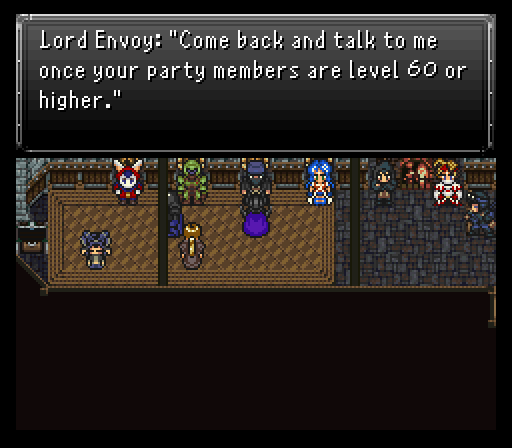
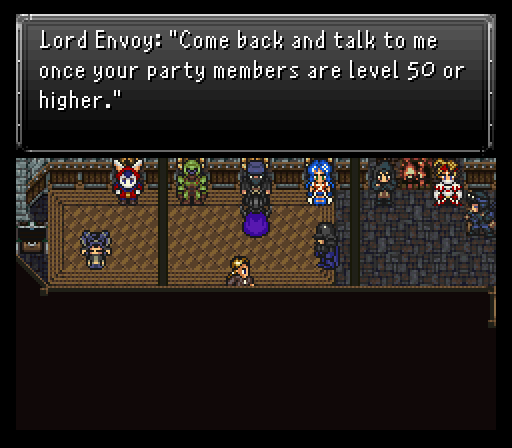
Add some 2.9.9 guide changes

diff --git a/website/guide/part-29.html b/website/guide/part-29.html
@@ -199,7 +199,7 @@
                             The sealed guardian:
                         </h4>
                         <p>
-                            Back in Fraust this time to wrap up one of the loose ends. Now that we are at least level 60, we can talk to Lord Envoy who will grant us access to the back room where a powerful creature exists. The room that the tonberry was guarding has a monster in a chest, but not just any standard monster. This one is Ultimecia's right hand guardian force Griever.
+                            Back in Fraust this time to wrap up one of the loose ends. Now that we are at least level 50, we can talk to Lord Envoy who will grant us access to the back room where a powerful creature exists. The room that the tonberry was guarding has a monster in a chest, but not just any standard monster. This one is Ultimecia's right hand guardian force Griever.
                         </p>
                         <div class="d-flex justify-content-center">
                             <img alt="Image 446" class="align-self-center" src="../guidemedia/29/446.png"/>

diff --git a/website/guide/part-28.html b/website/guide/part-28.html
@@ -189,7 +189,7 @@
                             Glaurung:
                         </h4>
                         <p>
-                            Next up on the dragon-slaying world tour is the Phoenix Cave. Towards the end of it there was a fire dragon who was pacing around a chest. I believe my two major dragon slaying experts need to give it to the dragon and claim that chest, am I right?
+                            Next up on the dragon-slaying world tour is the Phoenix Cave. Towards the end of it there was a fire dragon who was pacing around a chest. Thankfully the devs added a 'warp point' just inside the entrance, so we won't have to go through the whole damn place again! Once warped, go back one room and make your way over to where the dragon resides. I believe my two major dragon slaying experts need to give it to the dragon and claim that chest, am I right?
                         </p>
                         <img alt="Image 437" class="align-self-center" src="../guidemedia/28/437.png"/>
                         <p>

diff --git a/website/guide/part-25.html b/website/guide/part-25.html
@@ -131,7 +131,7 @@
                             Enemy wise, Red Beasts still being very capable of dishing out high damage aside, most enemies aren't supremely threatening. Besides that there's just Hellhounds.  Makes for a great place to visit and gain exp and gil if you need a boost.
                         </p>
                         <p>
-                            Despite the town being empty at first glance, there are some survivors, namely those in the Developers' House. Of interest is Lord Envoy, who if your party is level 60 or above will say you might be up to a real fight of sorts.
+                            Despite the town being empty at first glance, there are some survivors, namely those in the Developers' House. Of interest is Lord Envoy, who if your party is level 50 or above will say you might be up to a real fight of sorts.
                         </p>
                         <img alt="Image 379" class="align-self-center" src="../guidemedia/25/379.png"/>
                         <p>

diff --git a/generator/templates/guide/guide_29.html b/generator/templates/guide/guide_29.html
@@ -80,7 +80,7 @@
     The sealed guardian:
 </h4>
 <p>
-    Back in Fraust this time to wrap up one of the loose ends. Now that we are at least level 60, we can talk to Lord Envoy who will grant us access to the back room where a powerful creature exists. The room that the tonberry was guarding has a monster in a chest, but not just any standard monster. This one is Ultimecia's right hand guardian force Griever.
+    Back in Fraust this time to wrap up one of the loose ends. Now that we are at least level 50, we can talk to Lord Envoy who will grant us access to the back room where a powerful creature exists. The room that the tonberry was guarding has a monster in a chest, but not just any standard monster. This one is Ultimecia's right hand guardian force Griever.
 </p>
 <div class="d-flex justify-content-center">
     <img alt="Image 446" class="align-self-center" src="../guidemedia/29/446.png"/>

diff --git a/generator/templates/guide/guide_28.html b/generator/templates/guide/guide_28.html
@@ -70,7 +70,7 @@
     Glaurung:
 </h4>
 <p>
-    Next up on the dragon-slaying world tour is the Phoenix Cave. Towards the end of it there was a fire dragon who was pacing around a chest. I believe my two major dragon slaying experts need to give it to the dragon and claim that chest, am I right?
+    Next up on the dragon-slaying world tour is the Phoenix Cave. Towards the end of it there was a fire dragon who was pacing around a chest. Thankfully the devs added a 'warp point' just inside the entrance, so we won't have to go through the whole damn place again! Once warped, go back one room and make your way over to where the dragon resides. I believe my two major dragon slaying experts need to give it to the dragon and claim that chest, am I right?
 </p>
 <img alt="Image 437" class="align-self-center" src="../guidemedia/28/437.png"/>
 <p>

diff --git a/generator/templates/guide/guide_25.html b/generator/templates/guide/guide_25.html
@@ -12,7 +12,7 @@
     Enemy wise, Red Beasts still being very capable of dishing out high damage aside, most enemies aren't supremely threatening. Besides that there's just Hellhounds.  Makes for a great place to visit and gain exp and gil if you need a boost.
 </p>
 <p>
-    Despite the town being empty at first glance, there are some survivors, namely those in the Developers' House. Of interest is Lord Envoy, who if your party is level 60 or above will say you might be up to a real fight of sorts.
+    Despite the town being empty at first glance, there are some survivors, namely those in the Developers' House. Of interest is Lord Envoy, who if your party is level 50 or above will say you might be up to a real fight of sorts.
 </p>
 <img alt="Image 379" class="align-self-center" src="../guidemedia/25/379.png"/>
 <p>

diff --git a/README.md b/README.md
@@ -14,6 +14,7 @@ The website is currently hosted at https://www.rotds.com.
     * [Jinja2 3.1.4](https://pypi.org/project/Jinja2/)
     * [pillow 10.4.0](https://pypi.org/project/pillow/)
     * [beautifulsoup4 4.12.3](https://pypi.org/project/beautifulsoup4/)
+    * [lxml 5.2.2](https://pypi.org/project/lxml/)
     * [mfvitools](https://github.com/emberling/mfvitools) (partially included in `generator/music`)
 2. Website dependencies (included from CDN)
     * [Bootstrap 5.2.3](https://getbootstrap.com/docs/5.2/getting-started/download/)
